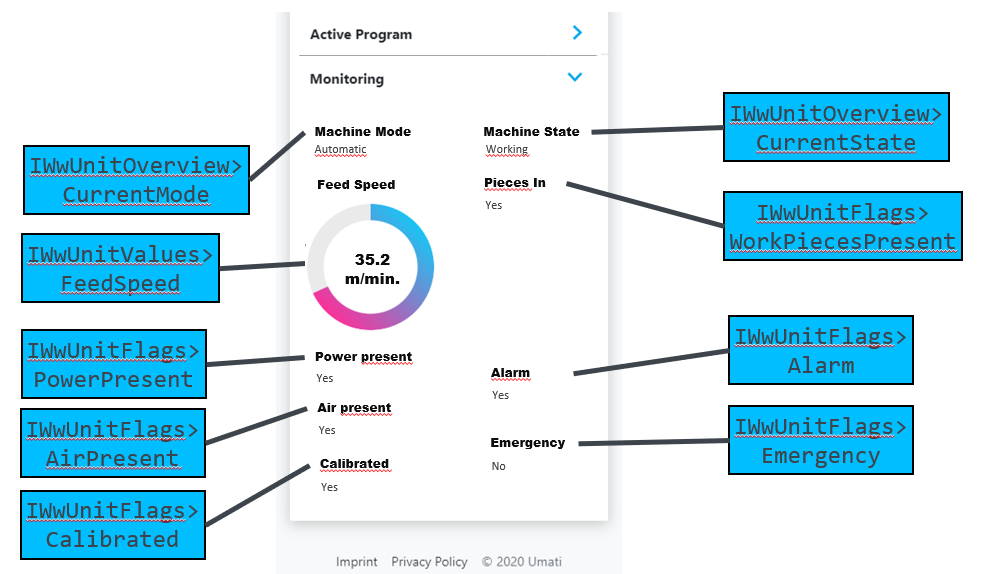
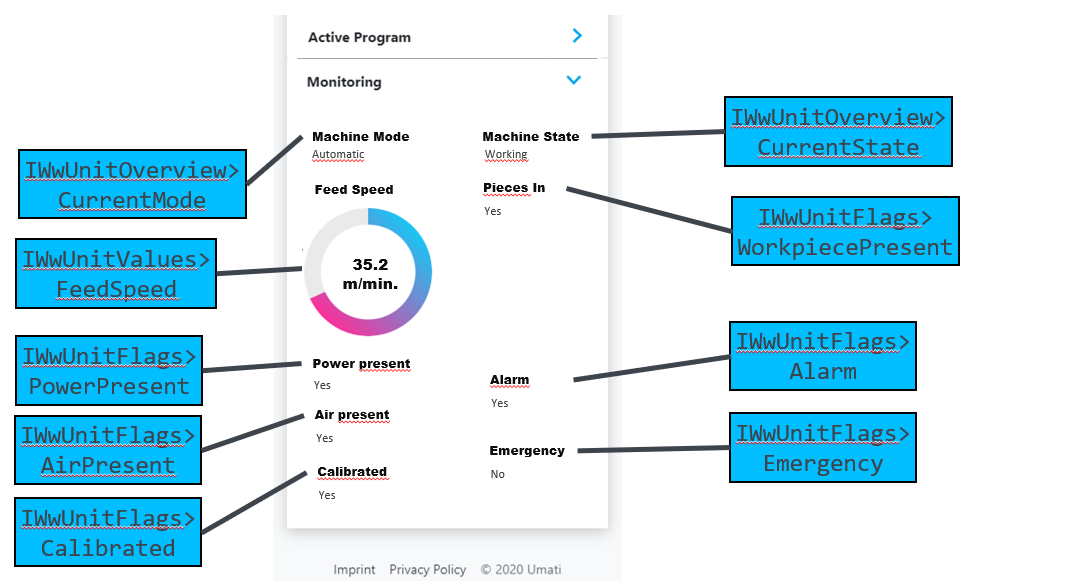
doc(WWM): Documentation for WoodWorking demo
doc(WWM): Modification of mapping
* Identification:Location instead of Identification:LocationPlant
* Change to "LastProgramName"
* Change from "WorkPiecesPresent" to "WorkpiecePresent"

fix(doc): Change of BrowseName not needed
* The BrowseName is no longer used to distinguish machines is in the datahub.

diff --git a/Specs/WoodWorking.md b/Specs/WoodWorking.md
@@ -4,7 +4,7 @@ In the following the umati showcase describes the additional information on top 
 
 Please refer to the provided xml-Nodesets or UaModeler-project for exemplary implementation.
 
-The following describes the umati showcase information model for Machine Tools.
+The following describes the umati showcase information model for Wood Working.
 
 For participants that are familiar with the information model, we have included comments and descriptions about changes between the release candidate information model and the showcase information model.
 
@@ -71,7 +71,7 @@ Fair shortnames are defined [here.](Fairs.md)
 
 ### Adaption of the provided information models for your purpose
 
-- The provided NodeSet contains the address space with the ObjectTypes, VariableTypes and DataTypes of the MachineTools companion specificaion and **must not** be changed.
+- The provided NodeSet contains the address space with the ObjectTypes, VariableTypes and DataTypes of the WoodWorking companion specificaion and **must not** be changed.
 - Change the URI of the instance namespace (optional, but recommended)
 
   `http://www.<MANUFACTURERDOMAIN>/example`
@@ -80,43 +80,40 @@ Fair shortnames are defined [here.](Fairs.md)
 
 - The machine will get a unique NamespaceURI after being integrated to the datahub by addition of a suffix to ensure unique namespaces.
 
-- **Change the BrowseName and DisplayName of MachineTool** to `Company (short only alphanumeric)-Machine Name (alphanumeric)`, e.g. `ISW-TestServerMachine` or `ISW-SharpDriller5000. This helps a human to identify the machine in the aggregated server. **Do not use any other characters than {A…Z, a…z, 0…9} for the name**. Skipping this step prevents an automated integration to the dashboard.
+## Value mapping between OPC UA companion specification and umati.app WoodWorking
 
-## Value mapping between OPC UA companion specification and umati.app MachineTool
+### Wood Working - Overview
 
-### Machine Tool - Overview
-
-![Overview](../img/MachineTool/MT-Overview.png "MT Overview")
-
+![Overview](../img/WoodWorking/WWM-Overview.png "WW Overview")
+ 
 ### Active Program Statusbar
 
-For the status overview in the dashboard, the *State* of the *ProductionActiveProgramType* is stored and plotted over time. The status bar **does NOT relate to the stacklight** status!
+For the status overview in the dashboard, the *State* of the *RecipeInRun* is stored and plotted over time. The status bar **does NOT relate to the stacklight** status!
 
 Each status is assigned to a color, the color scheme is here (subject to change):
 
 | State | Color |
 | --- | --- |
-| Initializing | &#9898; Gray |
-| Running | &#128994; Green |
-| Ended | &#128309; Cyan |
-| Interrupted | &#128992; Orange |
-| Aborted | &#128308; Red |
+| STANDBY | &#9898; Gray |
+| WORKING | &#128994; Green |
+| READY | &#128992; Yellow |
+| ERROR | &#128308; Red |
 | Any other (unspecified) state | &#9899; Black |
 
 A gap is left for periods of time in which no data was recorded (e.g. machine offline). An exemplary timeline is shown above.
 
-### Machine Tool - Identification
+### Wood Working - Identification
 
-![Identification](../img/MachineTool/MT-Identification.png "MT Identification")
+![Identification](../img/WoodWorking/WWM-Identification.png "MT Identification")
 
-### Machine Tool - Equipment - Tools
+### Wood Working - Active Program
 
-![Tools](../img/MachineTool/MT-Tools.png "MT Tools")
+![ActiveProgram](../img/WoodWorking/WWM-ActiveProgram.png "MT ActiveProgram")
 
-### Machine Tool - Active Program
+### Wood Working - Monitoring Stationary
 
-![ActiveProgram](../img/MachineTool/MT-ActiveProgram.png "MT ActiveProgram")
+![MonitoringStationary](../img/WoodWorking/WWM-MonitoringStationary.png "MT Monitoring")
 
-### Machine Tool - Monitoring
+### Wood Working - Monitoring Throughfeed
 
-![Monitoring](../img/MachineTool/MT-Monitoring.png "MT Monitoring")
+![MonitoringThroughfeed](../img/WoodWorking/WWM-MonitoringThroughfeed.png "MT Monitoring")
